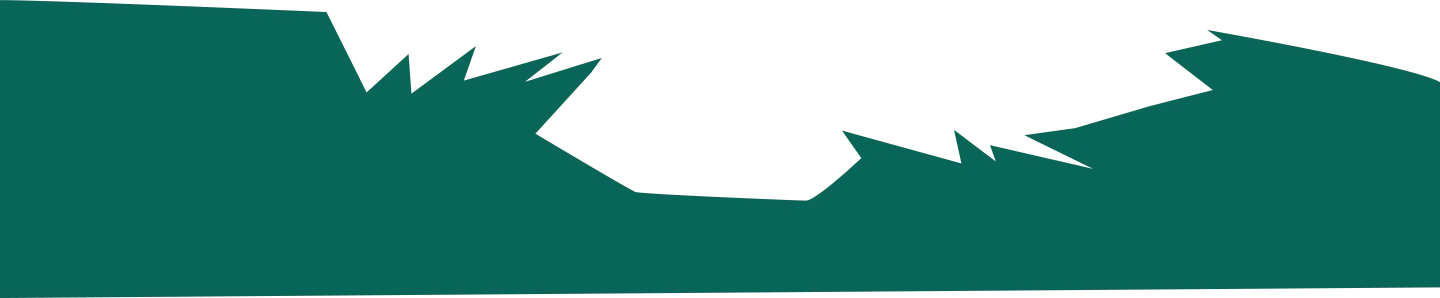
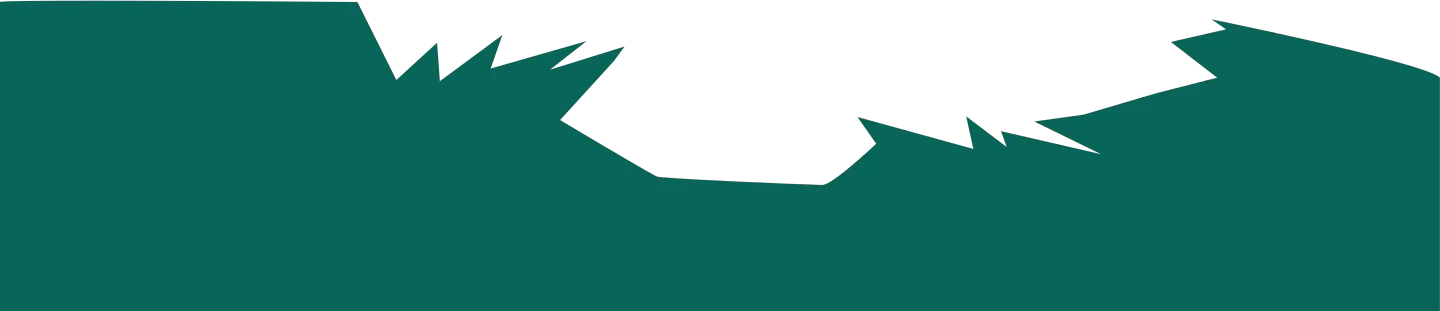
updated

Changed region(s): [[0.0, 0.0, 0.5938, 0.6946], [0.0, 0.9362, 1.0, 1.0], [0.5625, 0.0604, 1.0, 0.5436]]

diff --git a/src/Components/Utlitiy.jsx b/src/Components/Utlitiy.jsx
@@ -1,72 +1,154 @@
+// import React from "react";
+// import bigimg from "../assets/images/bigimg.webp"
+// import cycleimg from "../assets/images/cycleimg.webp"
+// import greentree from "../assets/images/greentree.webp"
+// import utilityLayer from "../assets/images/utilitylayer.webp";
+// import TimelineLayer from "../assets/images/roadmaplayer.webp";
+
+// const Utility = () => {
+//   return (
+//     <div className="relative overflow-hidden xl:pb-[466px] md:pb-[300px] sm:pb-[190px] xl:pt-[230px] sm:pt-[150px] pt-[100px] pb-[150px]">
+//       <div className="container mx-auto xl:max-w-[1038px] xl:px-3 px-6 relative z-10">
+//         <h2 className="font-chewy sm:text-[64px] text-[50px] font-normal text-white text-center leading-[132%]">
+//           Utility and Usecase
+//         </h2>
+//         <div className="relative z-10 xl:mt-[158px] max-lg:overflow-hidden lg:mt-[100px] md:mt-[70px] mt-[40px] rounded-[20px] border border-solid lg:h-[266px] border-white bg-[#09655A] lg:py-[62px] pt-[40px] lg:pl-[39px] lg:pr-[26px] px-[20px] flex lg:justify-between lg:flex-row flex-col">
+//           <div data-aos="fade-right">
+//             <p className="max-w-[681px] xl:text-[32px] lg:text-[29px] sm:text-[32px] text-[23px] font-bal font-normal text-white leading-[119%]">
+//               We are going to work hard in otder to add{" "}
+//               <span className="text-[#8EC627]">$</span>
+//               <span className="text-[#FBA11D]">D</span>
+//               <span className="text-[#23AAAC]">I</span>
+//               <span className="text-[#D45B07]">N</span>
+//               <span className="text-[#FB5352]">O</span> to main platforms as a
+//               form of payment
+//             </p>
+//             <p className="max-w-[695px] xl:text-[32px] lg:text-[29px] font-bal sm:text-[32px] text-[23px] font-normal text-white mt-[28px] leading-[120%]">
+//               You will be able to buy a lot of things with{" "}
+//               <span className="text-[#8EC627]">$</span>
+//               <span className="text-[#FBA11D]">D</span>
+//               <span className="text-[#23AAAC]">I</span>
+//               <span className="text-[#D45B07]">N</span>
+//               <span className="text-[#FB5352]">O</span>
+//             </p>
+//           </div>
+//           <img
+//             src={bigimg}
+//             alt="crocoWithGlasses"
+//             className="sm:max-w-[253px] max-w-[160px] lg:mt-0 mt-6  lg:h-[332px] utility_croco w-full"
+//           />
+//         </div>
+//         <div className="relative max-lg:overflow-hidden z-20 lg:mt-[125px] mt-[60px] rounded-[20px] border border-solid bg-[#09655A] lg:py-[95px] pt-[40px] lg:pr-[27px] lg:pl-0 px-5 lg:h-[266px] border-white flex lg:justify-between lg:flex-row flex-col-reverse lg:items-center ">
+//           <img
+//             src={cycleimg}
+//             alt="crocoWithCycle"
+//             className="sm:max-w-[267px] utility_croco1 max-w-[160px] lg:h-[334px] lg:translate-y-[-35px] lg:mt-0 mt-7 lg:ml-[-6px]"
+//           />
+//           <div data-aos="fade-left" className="">
+//             <p className="sm:text-[32px] text-[25px] font-normal lg:text-end font-bal text-center text-white leading-[119%]">
+//               We are going to have staking and buyback/ burning mechanism
+//             </p>
+//           </div>
+//         </div>
+//         <img
+//           src={greentree}
+//           alt="utilityTree"
+//           className="lg:max-w-[320px] max-w-[200px] w-full absolute lg:right-[-20%] right-[-14%] bottom-0"
+//         />
+//       </div>
+//       <img
+//         src={utilityLayer}
+//         alt="utilityLayer"
+//         className="absolute top-0 left-0 right-0 w-full"
+//       />
+//       <img
+//         src={TimelineLayer}
+//         alt="TimelineLayer"
+//         className="absolute left-0 right-0 bottom-[-13px] w-full"
+//       />
+//     </div>
+//   );
+// };
+
+// export default Utility;
 import React from "react";
-import bigimg from "../assets/images/bigimg.webp"
-import cycleimg from "../assets/images/cycleimg.webp"
-import greentree from "../assets/images/greentree.webp"
+import UtilityCartoon1 from "../assets/images/UtilityCartoon1.webp";
+import UtilityCartoon2 from "../assets/images/UtilityCartoon2.webp";
 import utilityLayer from "../assets/images/utilitylayer.webp";
-import TimelineLayer from "../assets/images/roadmaplayer.webp";
+import UtilityTree from "../assets/images/UtilityTree.webp";
+import roadmaplayer from "../assets/images/roadmaplayer.webp";
 
 const Utility = () => {
   return (
-    <div className="relative overflow-hidden xl:pb-[466px] md:pb-[300px] sm:pb-[190px] xl:pt-[230px] sm:pt-[150px] pt-[100px] pb-[150px]">
-      <div className="container mx-auto xl:max-w-[1038px] xl:px-3 px-6 relative z-10">
-        <h2 className="font-chewy sm:text-[64px] text-[35px] font-normal text-white text-center leading-[132%]">
-          Utility and Usecase
-        </h2>
-        <div className="relative z-10 xl:mt-[158px] max-lg:overflow-hidden lg:mt-[100px] md:mt-[70px] mt-[40px] rounded-[20px] border border-solid lg:h-[266px] border-white bg-[#09655A] lg:py-[62px] pt-[40px] lg:pl-[39px] lg:pr-[26px] px-[20px] flex lg:justify-between lg:flex-row flex-col">
-          <div data-aos="fade-right">
-            <p className="max-w-[681px] xl:text-[32px] lg:text-[29px] sm:text-[32px] text-[23px] font-bal font-normal text-white leading-[119%]">
-              We are going to work hard in otder to add{" "}
-              <span className="text-[#8EC627]">$</span>
-              <span className="text-[#FBA11D]">D</span>
-              <span className="text-[#23AAAC]">I</span>
-              <span className="text-[#D45B07]">N</span>
-              <span className="text-[#FB5352]">O</span> to main platforms as a
-              form of payment
-            </p>
-            <p className="max-w-[695px] xl:text-[32px] lg:text-[29px] font-bal sm:text-[32px] text-[23px] font-normal text-white mt-[28px] leading-[120%]">
-              You will be able to buy a lot of things with{" "}
-              <span className="text-[#8EC627]">$</span>
-              <span className="text-[#FBA11D]">D</span>
-              <span className="text-[#23AAAC]">I</span>
-              <span className="text-[#D45B07]">N</span>
-              <span className="text-[#FB5352]">O</span>
-            </p>
+    <>
+      <div className="relative overflow-hidden">
+        <img
+          src={roadmaplayer}
+          alt="RoadmapLayer"
+          className="absolute xl:h-[298px] sm:h-[250px] h-[110px] bottom-0 left-0 right-0 w-full"
+        />
+        <img
+          src={utilityLayer}
+          alt="UtilityLayer"
+          className="absolute top-0 w-full left-0 right-0"
+        />
+        <div className="container mx-auto xl:max-w-[1038px] xl:pt-[250px] lg:pt-[180px] pt-[80px] mb-[168px] xl:px-3 px-6 z-[1] relative">
+          <img
+            src={UtilityTree}
+            alt="UtilityTree"
+            className="absolute bottom-[11px] right-[-22%] z-[-1] w-full max-w-[350px]"
+          />
+          <h2
+            className=" sm:text-[64px] text-[50px] font-normal leading-[131%] text-white text-center font-chewy"
+            data-aos="zoom-in"
+          >
+            Utility and Usecase
+          </h2>
+          <div
+            className="rounded-[20px] border sm:pl-[39px] sm:pr-[24px] px-6 border-white bg-[#09655A] border-solid lg:h-[266px] flex items-center lg:flex-row flex-col xl:mt-[158px] lg:mt-[100px] sm:mt-[80px] mt-[45px]"
+            data-aos="zoom-in"
+          >
+            <div className="pt-[28px] lg:pt-0">
+              <p className="text-white lg:max-w-[681px] lg:text-start text-center font-normal font-bal leading-[119%] sm:mb-[28px] mb-[18px] lg:text-[32px] text-[24px]">
+                We are going to work hard in otder to add{" "}
+                <span className="text-[#8EC627] font-bold">$</span>
+                <span className="text-[#FBA11D] font-bold">D</span>
+                <span className="text-[#23AAAC] font-bold">I</span>
+                <span className="text-[#D45B07] font-bold">N</span>
+                <span className="text-[#FB5352] font-bold">O</span> to main
+                platforms as a form of payment
+              </p>
+              <p className="text-white lg:text-[32px] text-[24px] lg:text-start text-center font-normal font-bal leading-[119%] lg:max-w-[695px]">
+                You will be able to buy a lot of things with{" "}
+                <span className="text-[#8EC627] font-bold">$</span>
+                <span className="text-[#FBA11D] font-bold">D</span>
+                <span className="text-[#23AAAC] font-bold">I</span>
+                <span className="text-[#D45B07] font-bold">N</span>
+                <span className="text-[#FB5352] font-bold">O</span>
+              </p>
+            </div>
+            <img
+              src={UtilityCartoon1}
+              alt="UtilityCartoon1"
+              className=" w-full sm:max-w-[255.51px] max-w-[180px] vert_move1 lg:translate-y-[-27px] mt-[60px] lg:mt-0 lg:h-[323px]"
+            />
           </div>
-          <img
-            src={bigimg}
-            alt="crocoWithGlasses"
-            className="sm:max-w-[253px] max-w-[160px] lg:mt-0 mt-6  lg:h-[332px] utility_croco w-full"
-          />
-        </div>
-        <div className="relative max-lg:overflow-hidden z-20 lg:mt-[125px] mt-[60px] rounded-[20px] border border-solid bg-[#09655A] lg:py-[95px] pt-[40px] lg:pr-[27px] lg:pl-0 px-5 lg:h-[266px] border-white flex lg:justify-between lg:flex-row flex-col-reverse lg:items-center ">
-          <img
-            src={cycleimg}
-            alt="crocoWithCycle"
-            className="sm:max-w-[267px] utility_croco1 max-w-[160px] lg:h-[334px] lg:translate-y-[-35px] lg:mt-0 mt-7 lg:ml-[-6px]"
-          />
-          <div data-aos="fade-left" className="">
-            <p className="sm:text-[32px] text-[25px] font-normal lg:text-end font-bal text-center text-white leading-[119%]">
+          <div
+            className="lg:mt-[125px] sm:mt-[80px] mt-[50px] flex lg:flex-row flex-col-reverse items-center lg:pr-[27px] px-6 lg:px-0 lg:pt-0 pt-[28px] lg:justify-between bg-[#09655A] border border-solid border-white rounded-[20px] lg:h-[266px] xl:mb-[441px] md:mb-[407px] mb-[180px]"
+            data-aos="zoom-in"
+          >
+            <img
+              src={UtilityCartoon2}
+              alt="UtilityCartoon2"
+              className="w-full sm:max-w-[267px] max-w-[180px] lg:h-[334.16px] vert_move2 lg:translate-y-[-41px]"
+            />
+            <p className="lg:max-w-[681px] lg:text-end text-center mb-[70px] lg:mb-0 text-white font-normal font-bal lg:text-[32px] text-[24px]">
               We are going to have staking and buyback/ burning mechanism
             </p>
           </div>
         </div>
-        <img
-          src={greentree}
-          alt="utilityTree"
-          className="lg:max-w-[320px] max-w-[200px] w-full absolute lg:right-[-20%] right-[-14%] bottom-0"
-        />
       </div>
-      <img
-        src={utilityLayer}
-        alt="utilityLayer"
-        className="absolute top-0 left-0 right-0 w-full"
-      />
-      <img
-        src={TimelineLayer}
-        alt="TimelineLayer"
-        className="absolute left-0 right-0 bottom-[-13px] w-full"
-      />
-    </div>
+    </>
   );
 };
 

diff --git a/src/Components/Faq.jsx b/src/Components/Faq.jsx
@@ -11,7 +11,7 @@ function Icon({ id, open }) {
       <svg
         className={`${
           id === open ? "rotate-180" : "rotate-0"
-        }  sm:mr-12   transition-transform`}
+        }   transition-transform`}
         width="36"
         height="36"
         viewBox="0 0 36 36"
@@ -50,7 +50,7 @@ function Faq() {
           className=" mx-auto relative max-w-[800px] px-2 "
         >
           <Accordion
-            className={`border-[#C5C5C5] bg-[#09655A] border mb-4 rounded-full p-3 sm:pt-[30px] sm:pb-[27px] sm:ps-[26px] ${
+            className={`border-[#C5C5C5] bg-[#09655A] border mb-4 rounded-full p-3 sm:pt-[30px] sm:pb-[27px] sm:px-[50px] ${
               open === 1 ? "rounded-[26px] sm:rounded-[45px] " : "rounded-full"
             }`}
             open={open === 1}
@@ -69,7 +69,7 @@ function Faq() {
             </AccordionBody>
           </Accordion>
           <Accordion
-            className={`border-[#C5C5C5] border bg-[#09655A] mb-4 overflow-hidden rounded-full p-3 sm:pt-[30px] sm:pb-[27px] sm:ps-[26px] ${
+            className={`border-[#C5C5C5] border bg-[#09655A] mb-4 overflow-hidden rounded-full p-3 sm:pt-[30px] sm:pb-[27px] sm:px-[50px] ${
               open === 2 ? "rounded-[26px] sm:rounded-[45px]" : "rounded-full"
             }`}
             open={open === 2}
@@ -89,7 +89,7 @@ function Faq() {
             </AccordionBody>
           </Accordion>
           <Accordion
-            className={`border-[#C5C5C5] border bg-[#09655A] mb-4 rounded-full p-3 sm:pt-[30px] sm:pb-[27px] sm:ps-[26px] ${
+            className={`border-[#C5C5C5] border bg-[#09655A] mb-4 rounded-full p-3 sm:pt-[30px] sm:pb-[27px] sm:px-[50px] ${
               open === 3 ? "rounded-[26px] sm:rounded-[45px]" : "rounded-full"
             }`}
             open={open === 3}
@@ -108,7 +108,7 @@ function Faq() {
             </AccordionBody>
           </Accordion>
           <Accordion
-            className={`border-[#C5C5C5] border bg-[#09655A] mb-4 rounded-full p-3 sm:pt-[30px] sm:pb-[27px] sm:ps-[26px] ${
+            className={`border-[#C5C5C5] border bg-[#09655A] mb-4 rounded-full p-3 sm:pt-[30px] sm:pb-[27px] sm:px-[50px] ${
               open === 4 ? "rounded-[26px] sm:rounded-[45px]" : "rounded-full"
             }`}
             open={open === 4}
@@ -127,7 +127,7 @@ function Faq() {
             </AccordionBody>
           </Accordion>
           <Accordion
-            className={`border-[#C5C5C5] border bg-[#09655A] mb-4 rounded-full p-3 sm:pt-[30px] sm:pb-[27px] sm:ps-[26px] ${
+            className={`border-[#C5C5C5] border bg-[#09655A] mb-4 rounded-full p-3 sm:pt-[30px] sm:pb-[27px] sm:px-[50px] ${
               open === 5 ? "rounded-[26px] sm:rounded-[45px]" : "rounded-full"
             }`}
             open={open === 5}

diff --git a/src/App.js b/src/App.js
@@ -13,6 +13,7 @@ import 'aos/dist/aos.css';
 import Aos from 'aos';
 import Loader from './Components/Loader';
 
+
 function App() {
   // ----------------backToTop----------------
   const top = () => {
@@ -59,7 +60,7 @@ function App() {
       <Roadmap/>
       <Faq />
       <Footer />
-       <div onClick={() => top()} className={backToTop ? "shadow-[0_5px_16px_rgba(225,_225,_225,_1)] fixed bottom-[3%] h-[50px] w-[50px] flex items-center justify-center backTopBtn rounded-[50px] bg-[#65AD41] cursor-pointer border-[2px] border-solid border-white transition-all ease-linear duration-300 right-[2%] z-[2]" : "hidden"}>
+       <div onClick={() => top()} className={backToTop ? "shadow-[0_5px_16px_rgba(225,_225,_225,_1)] fixed bottom-[3%] h-[50px] w-[50px] flex items-center justify-center backTopBtn rounded-[50px] bg-[#65AD41] cursor-pointer border-[2px] border-solid border-white transition-all ease-linear duration-300 right-[2%] z-[10]" : "hidden"}>
             <img src={BackToTop} alt='BackToTop' />
           </div>
       

diff --git a/src/Components/Roadmap.jsx b/src/Components/Roadmap.jsx
@@ -92,7 +92,7 @@ const Roadmap = () => {
             />
           </div>
           <div
-            className="flex sm:flex-row flex-col sm:items-center md:justify-center lg:gap-[30px] gap-[15px] md:pt-[154px] pt-[30px] relative z-10"
+            className="flex sm:flex-row flex-col sm:items-center md:justify-center lg:gap-[30px] gap-[15px] md:pt-[184px] pt-[30px] relative z-10"
             data-aos="zoom-in-left"
           >
             <h3 className="lg:text-[200px] sm:text-[120px] text-[70px]  font-chewy font-normal md:ml-[150px] text-[#23AAAC] drop-shadow-[0px_18.413px_18.413px_rgba(0,_0,_0,_0.26)] leading-[145%]">
